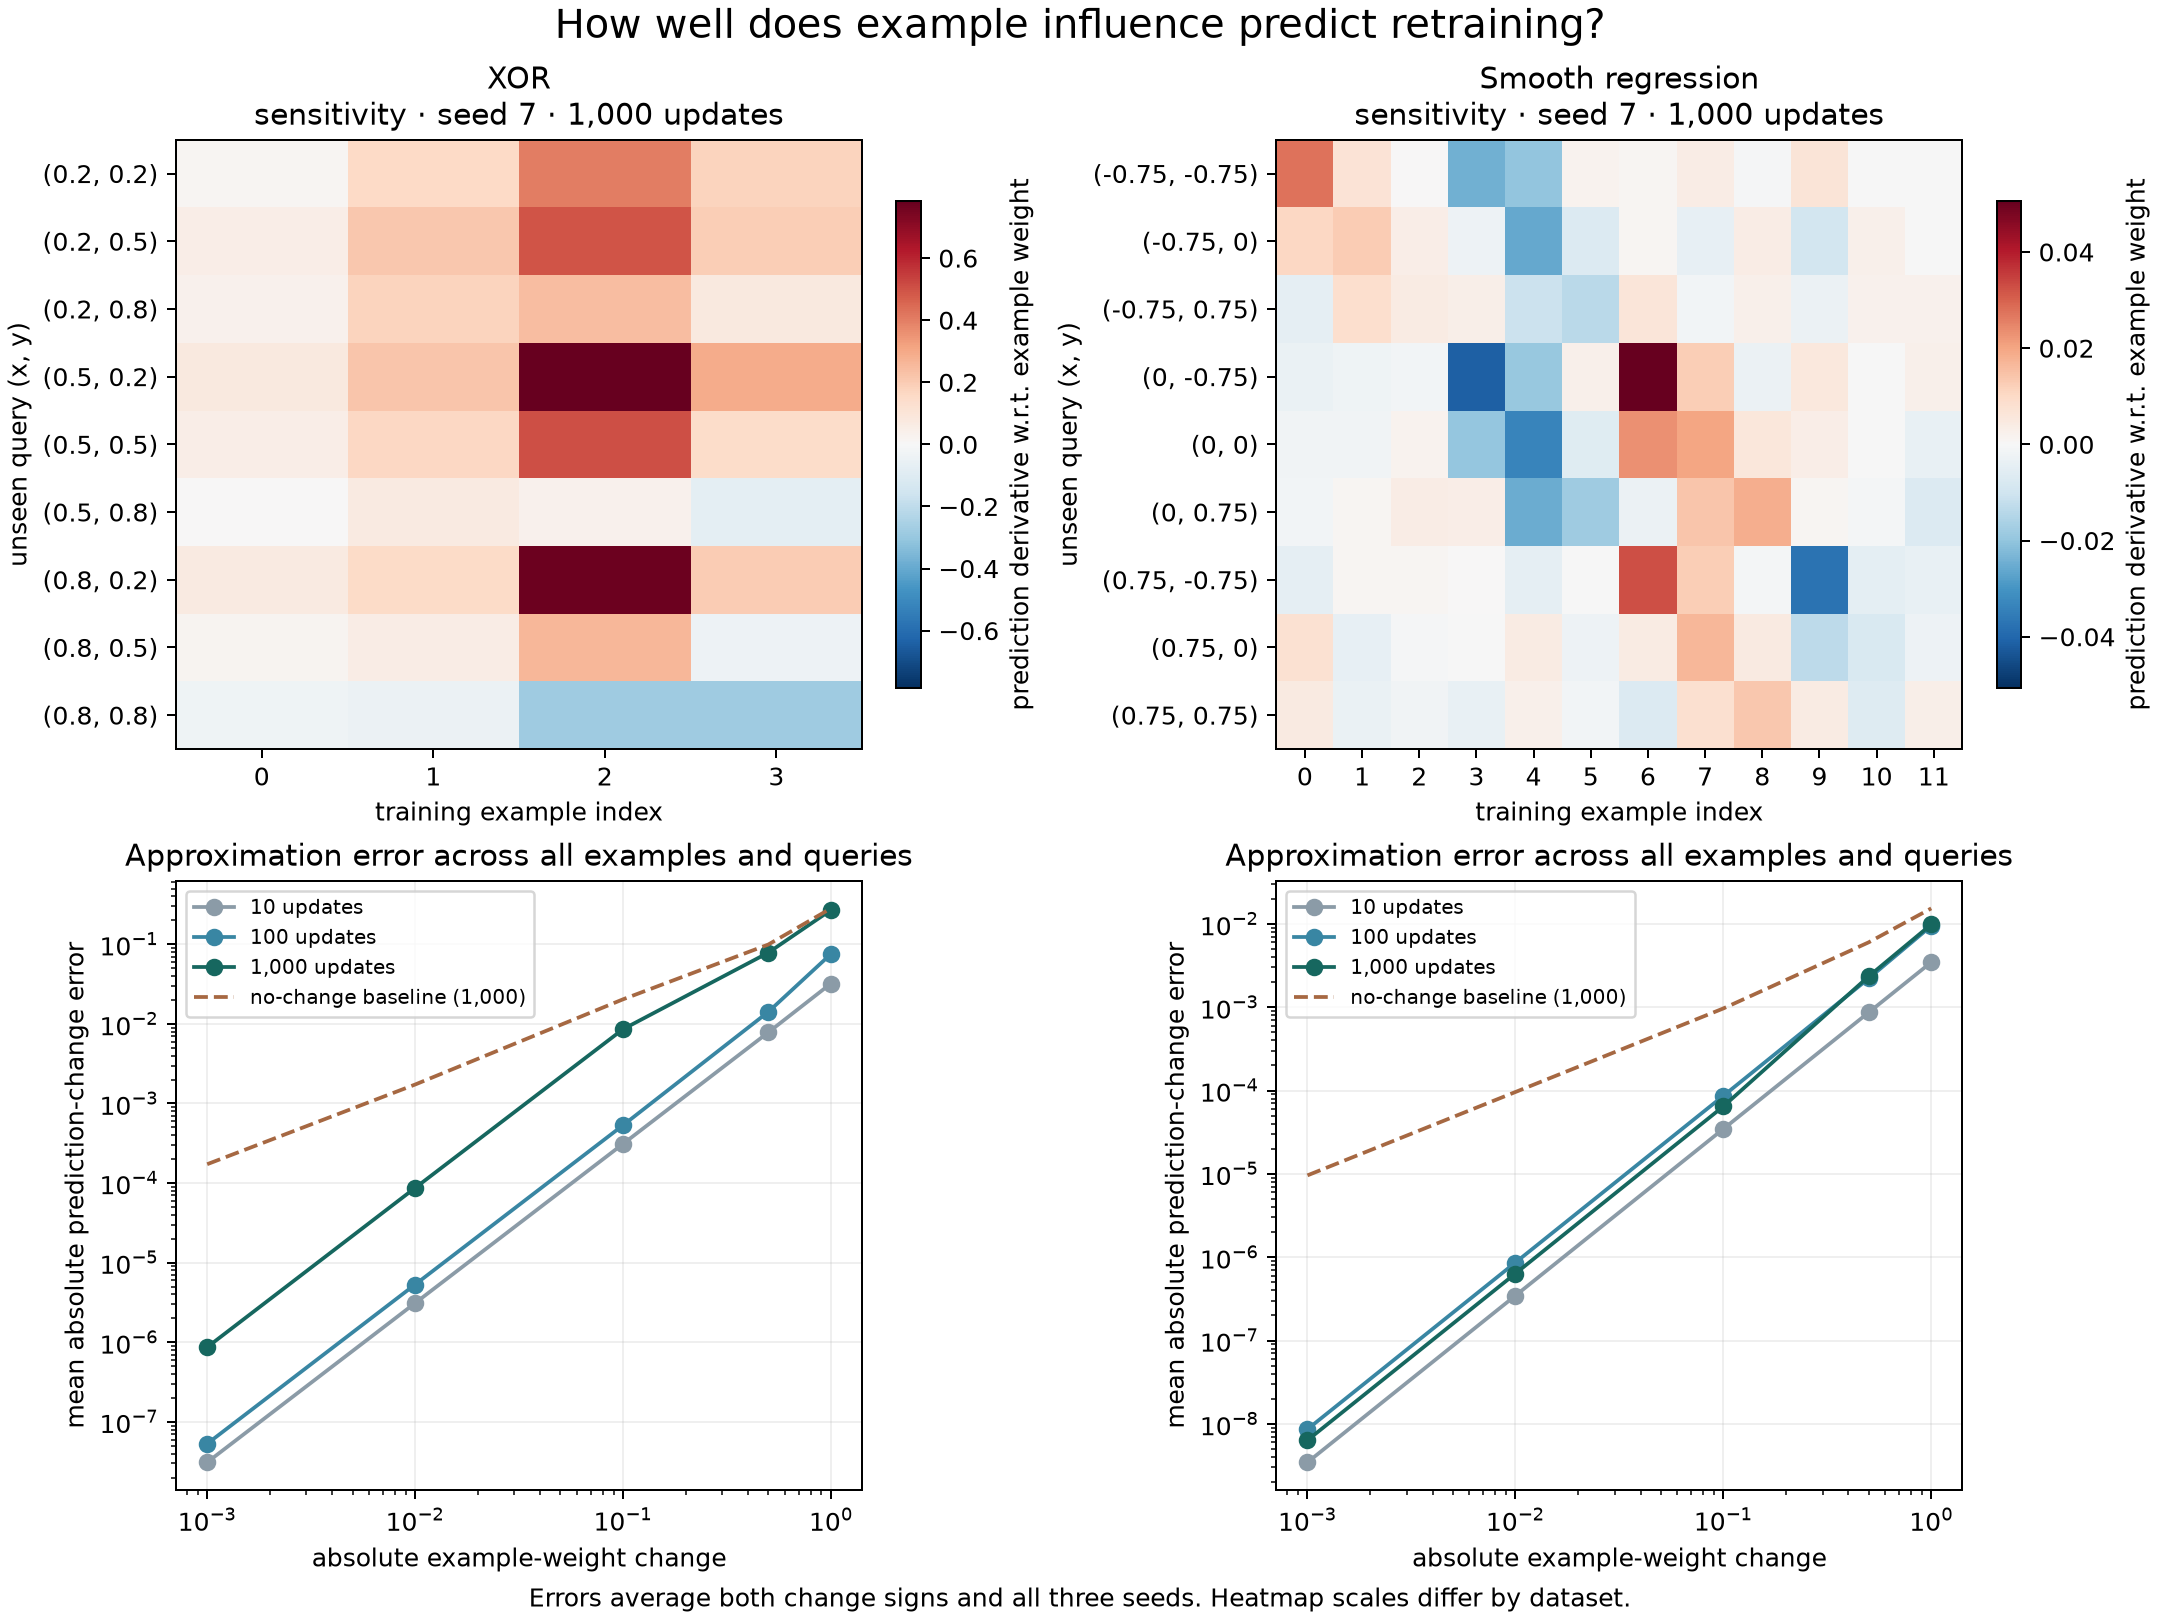
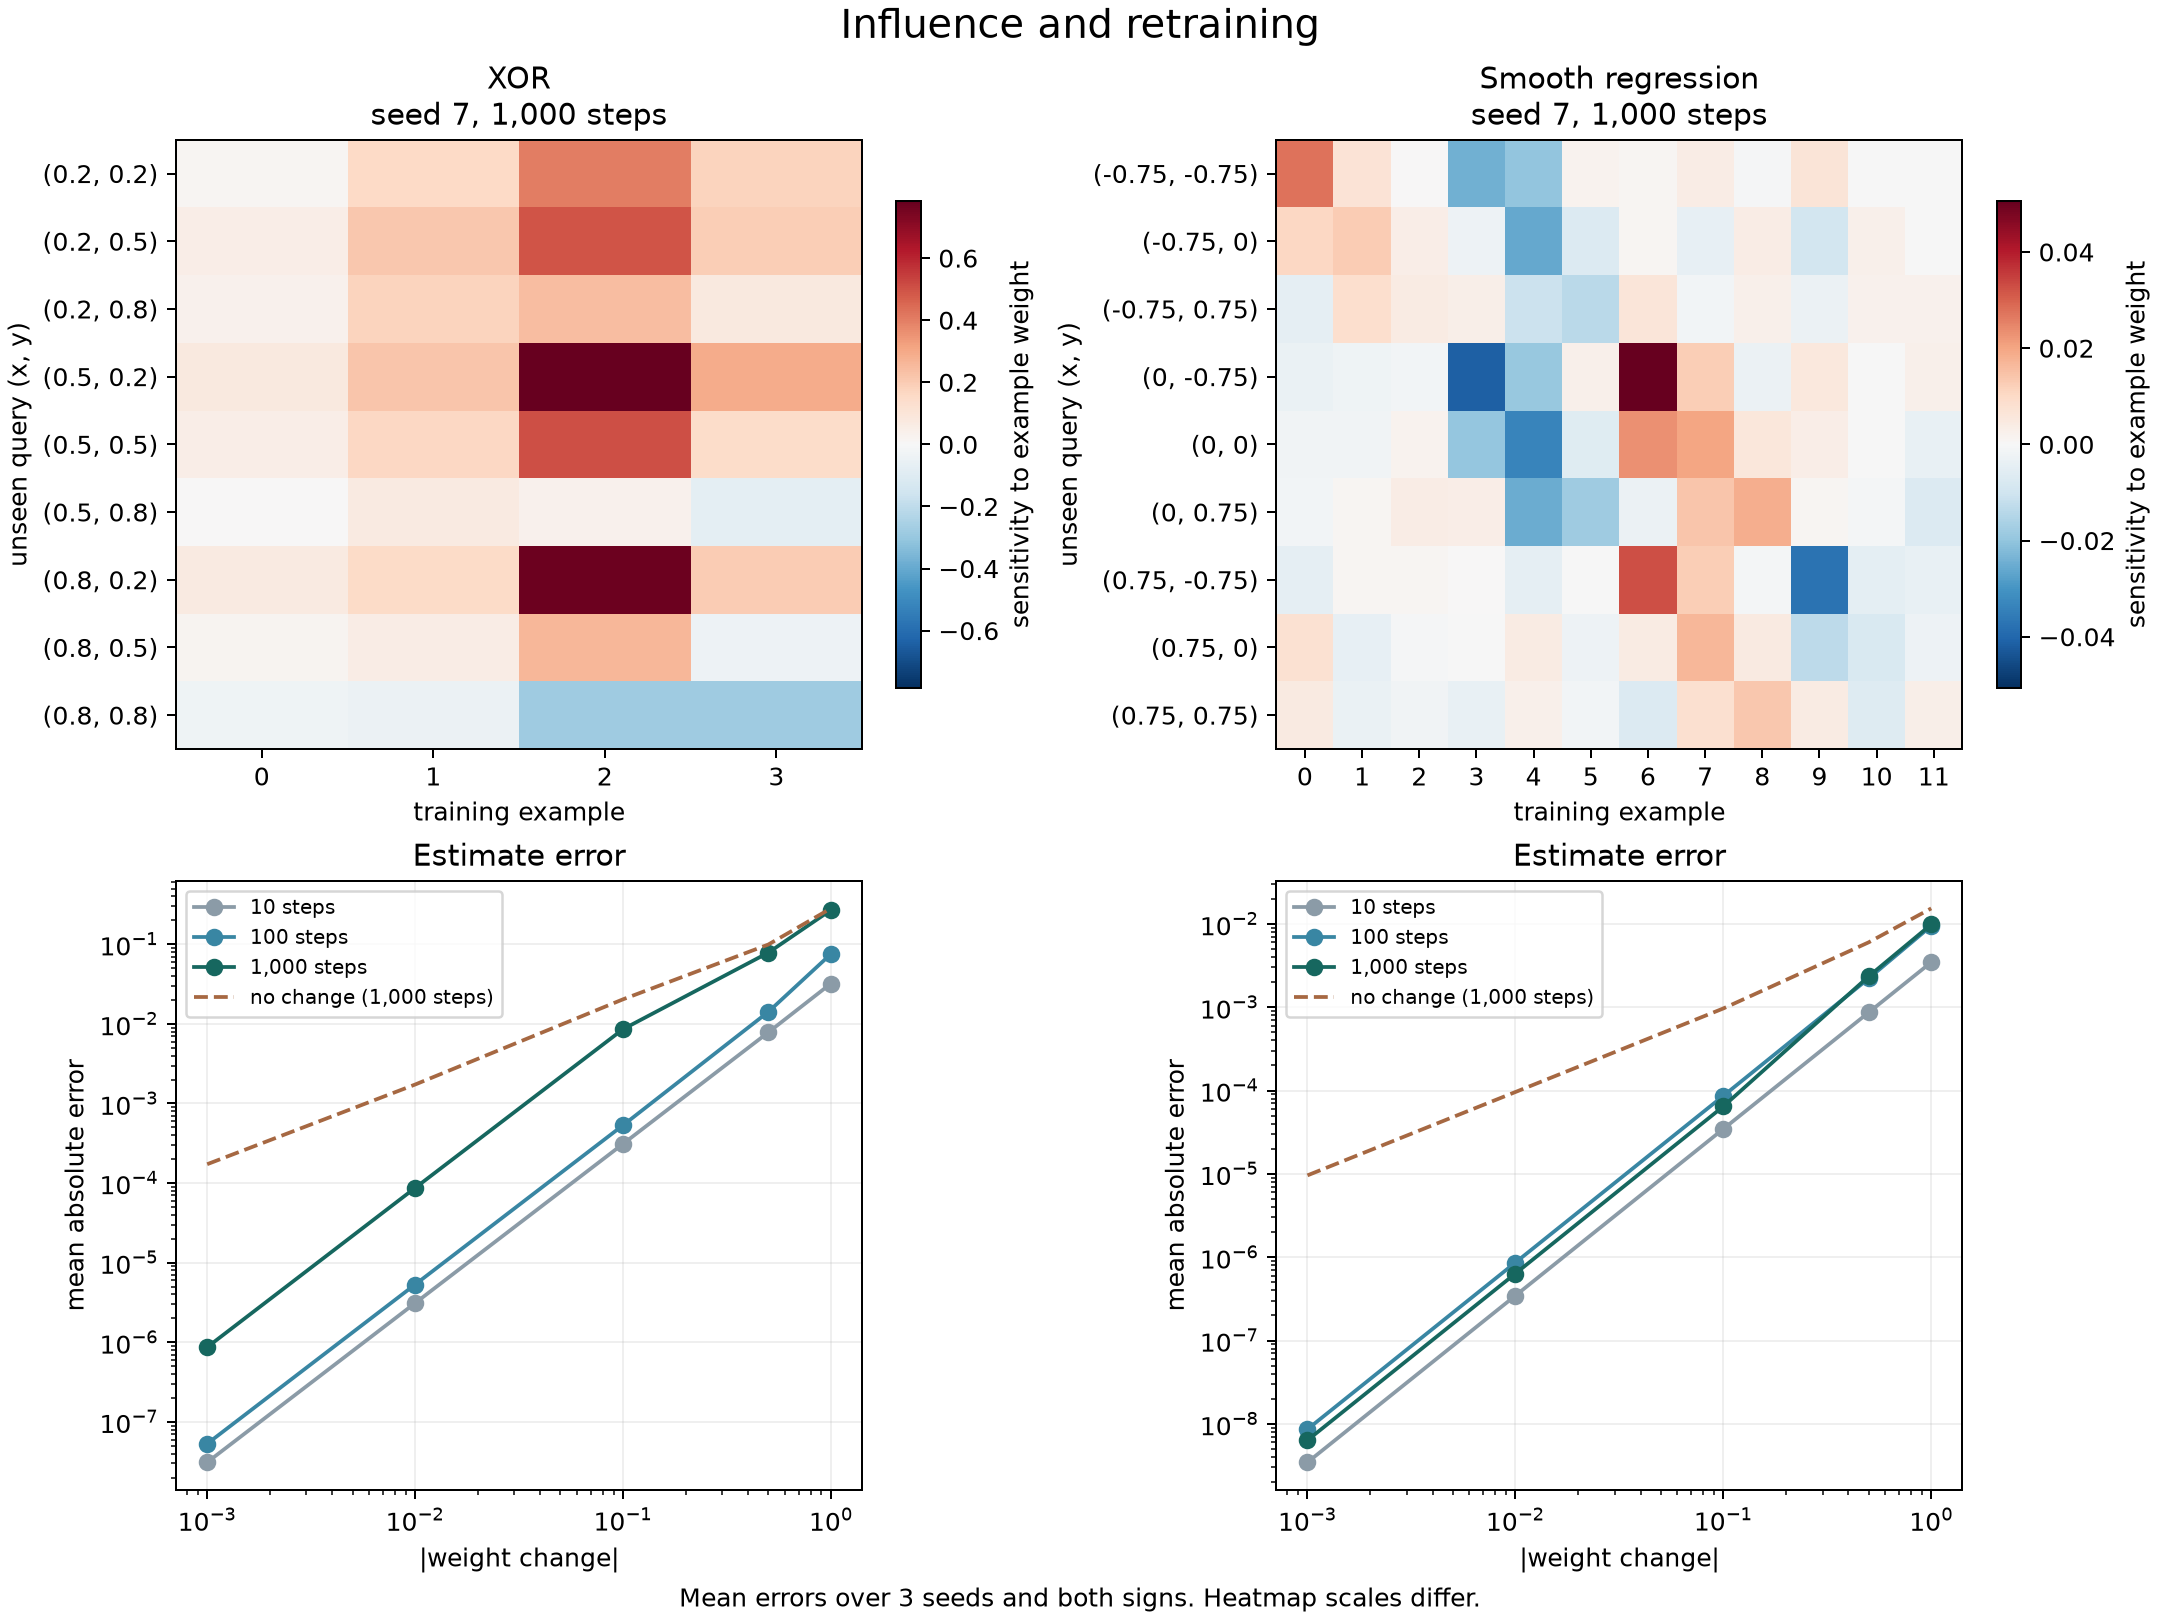
simplify readme and plot labels

diff --git a/plot.py b/plot.py
@@ -34,7 +34,7 @@ def summarize(rows):
 
 def draw(rows, summary, output):
     fig, axes = plt.subplots(2, 2, figsize=(12, 9), layout="constrained")
-    fig.suptitle("How well does example influence predict retraining?", fontsize=16)
+    fig.suptitle("Influence and retraining", fontsize=16)
     colors = ("#8b9ba7", "#3986a3", "#16675f")
 
     for column, dataset in enumerate(("xor", "regression")):
@@ -51,26 +51,26 @@ def draw(rows, summary, output):
         ax = axes[0, column]
         heatmap = ax.imshow(matrix, cmap="RdBu_r", vmin=-limit, vmax=limit, aspect="auto")
         ax.set(xticks=examples, yticks=queries, yticklabels=[coordinates[q] for q in queries],
-               xlabel="training example index", ylabel="unseen query (x, y)",
+               xlabel="training example", ylabel="unseen query (x, y)",
                title=f"{dataset.upper() if dataset == 'xor' else 'Smooth regression'}\n"
-                     "sensitivity · seed 7 · 1,000 updates")
-        fig.colorbar(heatmap, ax=ax, shrink=0.8, label="prediction derivative w.r.t. example weight")
+                     "seed 7, 1,000 steps")
+        fig.colorbar(heatmap, ax=ax, shrink=0.8, label="sensitivity to example weight")
 
         ax = axes[1, column]
         for steps, color in zip((10, 100, 1000), colors):
             group = [r for r in summary if r["dataset"] == dataset and r["steps"] == steps]
             magnitudes = [r["weight_change_magnitude"] for r in group]
             ax.loglog(magnitudes, [r["mean_absolute_error"] for r in group],
-                      "o-", color=color, label=f"{steps:,} updates")
+                      "o-", color=color, label=f"{steps:,} steps")
             if steps == 1000:
                 ax.loglog(magnitudes, [r["no_change_mean_absolute_error"] for r in group],
-                          "--", color="#a66842", label="no-change baseline (1,000)")
-        ax.set(xlabel="absolute example-weight change", ylabel="mean absolute prediction-change error",
-               title="Approximation error across all examples and queries")
+                          "--", color="#a66842", label="no change (1,000 steps)")
+        ax.set(xlabel="|weight change|", ylabel="mean absolute error",
+               title="Estimate error")
         ax.grid(True, which="major", alpha=0.2)
         ax.legend(fontsize=8)
 
-    fig.supxlabel("Errors average both change signs and all three seeds. Heatmap scales differ by dataset.",
+    fig.supxlabel("Mean errors over 3 seeds and both signs. Heatmap scales differ.",
                   fontsize=10)
     fig.savefig(output / "influence.png", dpi=180)
     plt.close(fig)

diff --git a/README.md b/README.md
@@ -34,7 +34,10 @@ python3 -m unittest
 
 ## results
 
-[Plots, measurements and setup](results/README.md).
+[Plot](results/influence.png) · [Summary](results/summary.csv)
+
+Small weight changes track retraining closely. Large changes can miss badly,
+especially when an example's weight is set to zero.
 
 To regenerate the figure and summary after running the experiment:
 
